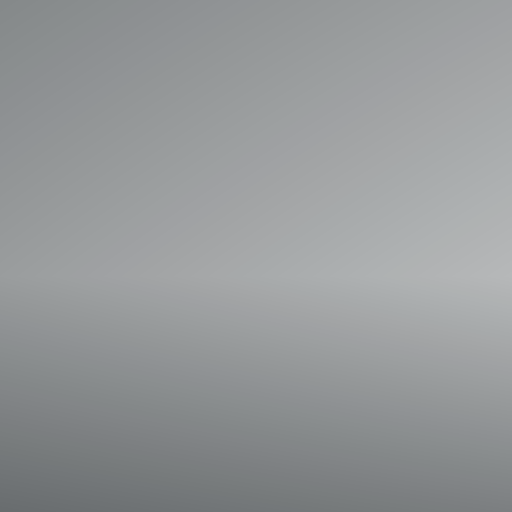
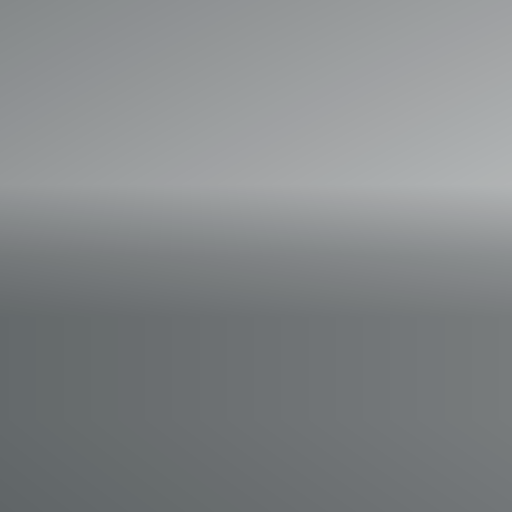
Accessibility fixes, code cleanup and detailed README
- Raise hero contrast on mobile and tablet (deeper mobile overlay, white
  description, lighter greeting); 24px contact link targets
- Move cream color out of the shared hand-note style so overrides apply
- Un-export locally used types/constants
- Refresh link preview images
- Rewrite README: stack, structure, motion, stickers, accessibility,
  privacy, and credits (photos and hand-designed logos by Tia; Claude
  assisted with site details)

diff --git a/src/components/Hero/Hero.tsx b/src/components/Hero/Hero.tsx
@@ -33,7 +33,7 @@ export function Hero() {
         <motion.p
           className={classNames(
             handNote,
-            "mb-0.5 gap-1.5 text-[20px] md:justify-start md:gap-2 md:text-[26px]",
+            "text-[#fff3e2] mb-0.5 gap-1.5 text-[20px] md:justify-start md:gap-2 md:text-[26px]",
             "[&_svg]:size-4.5 [&_svg]:flex-none md:[&_svg]:size-5.5",
           )}
           variants={write}
@@ -45,7 +45,7 @@ export function Hero() {
         <AnimatedName text="Tia Rexine" />
         <motion.p
           className={classNames(
-            "mb-1 max-w-110 leading-[1.4] text-sand/92 [text-shadow:0_1px_8px_rgb(0_0_0/35%)]",
+            "mb-1 max-w-110 leading-[1.4] text-white [text-shadow:0_1px_8px_rgb(0_0_0/35%)]",
             "-mt-1.25 text-[13.5px] md:-mt-2.25 md:text-[15px]",
           )}
           variants={rise}

diff --git a/src/components/Stickers/Stickers.tsx b/src/components/Stickers/Stickers.tsx
@@ -19,7 +19,7 @@ const stickerClass = classNames(
 
 const captionClass = classNames(
   handNoteText,
-  "mt-0.5 block text-center leading-[1.05] text-balance",
+  "mt-0.5 block text-center text-cream leading-[1.05] text-balance",
   "text-[18px] whitespace-normal",
   "collage:mx-[-35%] collage:w-[170%] collage:text-[21px] collage:whitespace-pre-line",
 );
@@ -70,7 +70,7 @@ export function Stickers() {
     >
       <SectionHeading kicker="a few of my favorites" title="Things I love" id="stickers-title">
         <motion.p
-          className={classNames(handNoteText, "hidden items-center text-[19px] opacity-80 fine:inline-flex")}
+          className={classNames(handNoteText, "hidden items-center text-cream text-[19px] opacity-80 fine:inline-flex")}
           variants={write}
         >
           (go ahead, drag them anywhere)

diff --git a/src/components/Hero/ContactLinks.tsx b/src/components/Hero/ContactLinks.tsx
@@ -4,7 +4,7 @@ import { faGithub, faLinkedinIn } from "@fortawesome/free-brands-svg-icons";
 import { BrandIcon } from "@/components/shared/icons";
 
 const link = classNames(
-  "inline-flex items-center transition-colors duration-180 hover:text-white",
+  "-my-1 inline-flex items-center py-1 transition-colors duration-180 hover:text-white",
   "gap-1.25 text-[11px] min-[401px]:gap-1.5 min-[401px]:text-[12px]",
   "[&_svg]:size-4 [&_svg]:stroke-[1.8]",
 );

diff --git a/src/components/About/AboutCard.tsx b/src/components/About/AboutCard.tsx
@@ -57,7 +57,7 @@ export function AboutCard({ block }: { block: AboutBlock }) {
             ))}
           </motion.ul>
           <motion.p
-            className={classNames(handNote, "mt-1 -rotate-2 gap-2 leading-[1.1] text-[20px] md:text-[22px]")}
+            className={classNames(handNote, "mt-1 -rotate-2 gap-2 text-cream leading-[1.1] text-[20px] md:text-[22px]")}
             variants={write}
           >
             even the tarantulas{" "}

diff --git a/src/components/shared/SectionHeading.tsx b/src/components/shared/SectionHeading.tsx
@@ -19,7 +19,7 @@ export function SectionHeading({
 }) {
   return (
     <motion.div className="grid justify-items-center gap-1" variants={group}>
-      <motion.p className={classNames(handNote, "gap-2 text-[20px] md:text-[24px]")} variants={write}>
+      <motion.p className={classNames(handNote, "gap-2 text-cream text-[20px] md:text-[24px]")} variants={write}>
         {kicker}
       </motion.p>
       <motion.h2

diff --git a/src/components/About/aboutData.tsx b/src/components/About/aboutData.tsx
@@ -5,7 +5,7 @@ import { Burro } from "@/components/shared/icons";
 
 type Icon = ComponentType<SVGProps<SVGSVGElement>>;
 
-export type AboutLink = { href: string; label: string; logo: string; logoAlt: string };
+type AboutLink = { href: string; label: string; logo: string; logoAlt: string };
 
 export type AboutBlock = {
   icons: Icon[];

diff --git a/src/components/Stickers/stickerData.ts b/src/components/Stickers/stickerData.ts
@@ -8,7 +8,7 @@ import potteryShelf from "../../../public/stickers/pottery-shelf.webp";
 import scallopedBowl from "../../../public/stickers/scalloped-bowl.webp";
 import tarantula from "../../../public/stickers/tarantula.webp";
 
-export type Sticker = {
+type Sticker = {
   image: StaticImageData;
   alt: string;
   label: string;

diff --git a/src/components/shared/motion.ts b/src/components/shared/motion.ts
@@ -1,7 +1,7 @@
 import type { Variants } from "motion/react";
 import type { PointerEvent } from "react";
 
-export const ease = [0.22, 1, 0.36, 1] as const;
+const ease = [0.22, 1, 0.36, 1] as const;
 
 export const group: Variants = {
   hidden: {},

diff --git a/src/components/shared/styles.ts b/src/components/shared/styles.ts
@@ -1,7 +1,7 @@
 import classNames from "classnames";
 
 export const handNoteText = classNames(
-  "font-script font-semibold leading-[1.1] text-cream",
+  "font-script font-semibold leading-[1.1]",
   "[text-shadow:0_1px_10px_rgb(0_0_0/35%)]",
 );
 

diff --git a/README.md b/README.md
@@ -1,21 +1,224 @@
-# Tia Rexine Portfolio
+# Tia Rexine — Portfolio
 
-A personal portfolio built with Next.js App Router, React, TypeScript, and Tailwind CSS. The homepage features Rexine Spa Care and Free Space Therapy, with the uploaded mountain photograph as the hero backdrop.
+The personal site of Tia Rexine, a full stack software engineer in the Sonoran desert who designs and builds for the
+web. It's a single, scrolling page: a sunset hero, a few cards about me, the sites I've built, a board of draggable
+photo stickers, and a way to say hello.
 
-## Run locally
+**Live site:** [tiarexine.com](https://tiarexine.com)
+
+---
+
+## Original work, made by hand
+
+- **Every photo on this site was taken by me.** That includes the mountain backdrop, the sunset skies the drifting
+  clouds come from, my pottery, my lamp, my cats and the desert neighbors on the sticker board.
+- **Every logo was designed by me, without the use of AI.** That includes the T-rex badge used for the site icon, the
+  Rexine Spa Care logo and the Free Space Therapy logo. Each one started as hand sketches and brainstorming and was
+  then executed in Adobe Illustrator.
+- **Built with help from Claude.** I used Claude, Anthropic's AI assistant, to help with many site details: code,
+  animations, accessibility testing, layout and copy edits. The photos and logos are entirely my own.
+
+The photos were prepared for the web without changing what's in them. Sticker cutouts were made with macOS's
+built-in subject lifting, the cloud strips were recolored from my sunset shots, and every image was resized,
+compressed and stripped of its metadata (including GPS location) before being added to the repo.
+
+---
+
+## Tech stack
+
+| Package | Version | What it does here |
+|---|---|---|
+| [Next.js](https://nextjs.org) | 16.4 | Framework: App Router, static rendering, image optimization, font loading and the metadata files (icons, link previews). |
+| [React](https://react.dev) + React DOM | 19.3 | UI library. All interactive pieces are small client components. |
+| [Motion](https://motion.dev) | 14 | Entrance animations, the letter-by-letter name, sticker physics and dragging (see [Motion](#motion)). |
+| [Tailwind CSS](https://tailwindcss.com) | 4.3 | Styling. Almost every style is an inline utility class; `globals.css` holds the design tokens. |
+| `@tailwindcss/turbopack` | 4.3 | Runs Tailwind inside Next's Turbopack bundler (configured in `next.config.ts`). |
+| [classnames](https://github.com/JedWatson/classnames) | 2.5 | Groups long Tailwind class lists into readable lines and handles conditional classes. |
+| [Lucide React](https://lucide.dev) | 1.74 | Line icons: sun, mail, palette, cat, store, arrows, heart, droplet, pause/play. |
+| [Font Awesome Brands](https://fontawesome.com) | 7.3 | The LinkedIn and GitHub logos, rendered through a tiny `BrandIcon` component. |
+| TypeScript | 5.9 | Types for every component and data file. |
+| ESLint + `eslint-config-next` | 9 | Linting, including a **120-character line limit**. |
+
+Built into Next.js and also used:
+
+- **`next/font`** loads three typefaces with no layout shift: **Geist** (body text), **Caveat** (the handwritten
+  notes) and **Diamond Grotesk** (headings and my name, self-hosted from `public/fonts`).
+- **`next/image`** serves responsive, optimized images for the logos, the T-rex badge and the stickers.
+- **Metadata files** in `src/app` (`icon.png`, `apple-icon.png`, `favicon.ico`, `opengraph-image.jpg`,
+  `twitter-image.jpg` and their `.alt.txt` files) give the site its icons and its link preview, which is a capture
+  of the real hero.
+
+---
+
+## Project structure
+
+```
+src/
+├── app/
+│   ├── layout.tsx          Fonts, <html>, and site metadata (title, description, social cards)
+│   ├── page.tsx            The page: sky layers, backdrop, and the five sections
+│   ├── globals.css         Tailwind import, design tokens, a few utilities, and CSS-only effects
+│   └── *.png / *.jpg       Icons and link-preview images
+└── components/
+    ├── Hero/               Hero, AnimatedName, ContactLinks, TrexBadge
+    ├── About/              About section, AboutCard, aboutData (all the card copy)
+    ├── Work/               Work section, ProjectCard, projects (logos, tags, palettes, links)
+    ├── Stickers/           Sticker board, stickerData, useFinePointer
+    ├── SayHello/           Footer section and the MotionToggle (pause animations)
+    └── shared/             GlassCard, SectionHeading, icons, motion presets, MotionProvider, styles
+```
+
+Copy and data live apart from layout, so text can be edited without touching markup: the About cards in
+`aboutData.tsx`, the projects in `projects.ts`, and the stickers in `stickerData.ts`.
+
+---
+
+## Design system
+
+`src/app/globals.css` defines everything the components share:
+
+- **Colors:** `cream` (#fde7c2) for accents, `sand` (#f3f0e8) for text, `ink` and `night` for the dark background,
+  and `coral` for focus rings.
+- **Fonts:** `font-display` (Diamond Grotesk) and `font-script` (Caveat).
+- **Utilities:**
+  - `glass`: the frosted, softly outlined cards.
+  - `text-sunset`: the white-to-cream gradient on my name and the section headings.
+  - `dot-list`: the cream lists separated by dots (desert animals and tech tags), styled so they don't look clickable.
+- **Breakpoints:**
+  - `md:` (768px) for desktop.
+  - `short:` for short laptop screens.
+  - `fine:` for mouse users on wider screens.
+  - `collage:` (900px) for the free-form sticker layout.
+
+---
+
+## The backdrop and sky
+
+- **Mountain photo:** fixed behind the page and denoised so the sky stays smooth on high-resolution screens.
+- **Drifting clouds:** two layers cut from my sunset photos and recolored violet and pink. They blend with the photo
+  and drift sideways in a seamless loop: the back layer over about 4 minutes, the front one over about 2½, for a
+  sense of depth. A soft mask keeps them in the sky so the mountains stay clear.
+- **Shading:** a gentle overlay improves text contrast. It's baked into a PNG, one for desktop and one for mobile,
+  instead of a CSS gradient, which avoids the faint grid pattern Chrome draws over large gradients.
+- **Scroll darkening:** as you scroll, the background darkens slightly using CSS scroll-driven animation, so longer
+  text stays readable.
+
+---
+
+## Motion
+
+All motion is built with Motion. The shared presets live in `components/shared/motion.ts`.
+
+- **Hero entrance:** the greeting "writes" itself in (a left-to-right clip reveal), then **"Tia Rexine" springs up
+  letter by letter**, then the description and links rise in.
+- **Section entrances:** each section rises into view once as you scroll. Cards spring in with a slight scale and
+  blur, and the desert animals pop in one at a time.
+- **Small living details** (CSS keyframes):
+  - the slowly turning sun
+  - the swaying saguaro
+  - the bobbing T-rex badge
+  - the beating heart after "even the tarantulas"
+  - the nudging arrow under "a bit about me"
+  - About-card icons that wiggle on hover
+- **Hover:**
+  - Cards show a warm glare that follows the cursor (a radial gradient positioned with CSS variables).
+  - Project and Rexine logos grow slightly.
+  - Link arrows nudge up and to the right.
+- **Custom cursors:**
+  - a soaring hawk everywhere
+  - a diving hawk over links and buttons
+  - a cream pointing hand over draggable stickers
+- **Respectful by default:**
+  - `MotionConfig reducedMotion="user"` and CSS media queries turn movement off for anyone with "reduce motion"
+    enabled.
+  - A **Pause animations** toggle in the footer stops all continuous motion and remembers the choice.
+
+### Stickers
+
+The "Things I love" board turns my photos into die-cut stickers with white borders and a soft drop shadow.
+
+- **Entrance:** each sticker "slaps" onto the board with a springy rotate-and-scale.
+- **Dragging:** with a mouse, every sticker can be **dragged anywhere on the page**. The one you grab comes to the
+  front, the page auto-scrolls near the edges, and stickers can't be dragged off the site. Dragging is turned off on
+  touch screens (detected by `useFinePointer`) so it never fights with scrolling.
+- **Responsive layout:**
+  - 900px and wider: a free-form collage positioned with CSS variables.
+  - 768–899px: a tidy 4-column grid.
+  - Phones: 2 columns.
+- **Captions** are handwritten. A caption can carry a tiny icon (the droplet after "resident drooler"), and the lamp's
+  caption is nudged to sit centered under its base.
+
+---
+
+## Accessibility
+
+The site is built and tested to meet **WCAG 2.2 Level AA**.
+
+**How it was tested**
+
+- [axe-core](https://github.com/dequelabs/axe-core) against WCAG 2.0, 2.1 and 2.2 A/AA plus best practices, at
+  desktop, tablet and mobile widths: **zero violations**.
+- **Text contrast** measured against the actual pixels behind each text style (the sky and the cards), at three
+  screen sizes: all 23 text styles pass.
+- **Keyboard:** a full walk of all 14 interactive elements, plus checks for zoom, reflow, text spacing and target
+  size.
+
+**What's in place, and the problems it solves**
+
+- **Readable text over a bright sunset.**
+  - **Problem:** light text over a golden sky failed contrast.
+  - **Solution:** the hero sits low over the darker mountain haze instead of the bright middle of the sky, and the
+    mobile overlay is subtly deeper behind the text. No band, box or blur covers the sky.
+  - **Result:** the hero reaches 4.1–8.1:1, depending on the element and screen size.
+- **Screen readers:**
+  - One `h1` and a clean `h2`/`h3` outline, a `main` landmark, a labeled `footer`, and every section labeled by
+    its heading.
+  - My name is animated letter by letter but announced as one word through an `aria-label`.
+  - Decorative icons and images are hidden. Every meaningful image has alt text, including the link preview.
+  - Links that open a new tab say so, for example "LinkedIn (opens in a new tab)".
+  - Color swatches have text names, so they aren't communicated by color alone.
+- **Keyboard:** every link and button is reachable in a logical order, with a clearly visible coral focus ring (at
+  least 3:1 against its background) and no keyboard traps. "a bit about me" scrolls to the About section without
+  changing the URL.
+- **Touch targets:** all controls are at least 24×24px.
+- **Zoom and reflow:** no sideways scrolling or clipped text at 320px wide, in phone landscape, at 200% zoom, or
+  with increased letter, word and line spacing.
+- **Motion (WCAG 2.2.2):** continuous animation can be paused on the page, "reduce motion" is respected, and nothing
+  flashes.
+- **Dragging (WCAG 2.5.7):** dragging stickers is purely optional. Every image and caption is fully available
+  without it.
+
+---
+
+## Privacy
+
+The original photos live in a git-ignored `photo-originals/` folder and are never committed or deployed. Only
+processed copies are published: resized, compressed, and with all metadata (including GPS location) removed.
+
+---
+
+## Development
 
 ```bash
 npm install
-npm run dev
+npm run dev      # http://localhost:3000
+npm run build    # production build
+npm run lint     # ESLint, including the 120-character line limit
 ```
 
-Open [http://localhost:3000](http://localhost:3000).
+Notes:
 
-## Deploy to Vercel
+- **Turbopack cache:** `next.config.ts` turns off Turbopack's persistent filesystem cache. With the Tailwind loader
+  it sometimes served stale CSS after edits. The site is small enough that the cache isn't needed.
+- **Tailwind class names:** classes use Tailwind's canonical forms (for example `size-4.5` rather than
+  `size-[18px]`), so the Tailwind IntelliSense extension shows no `suggestCanonicalClasses` warnings.
 
-Import `makapiatia/tia-rexine-app` into Vercel and deploy with the default Next.js settings. In the Vercel project settings, add `tiarexine.com` and follow the DNS records Vercel provides at your domain registrar.
+## Deploy
 
-## Project links
+The site deploys to [Vercel](https://vercel.com) with the default Next.js settings, at the
+[tiarexine.com](https://tiarexine.com) domain.
 
-- [Rexine Spa Care](https://www.rexinespacare.com/)
-- [Free Space Therapy](https://www.freespace-therapy.com/)
+## Projects featured
+
+- [Rexine Spa Care](https://www.rexinespacare.com/) ([source](https://github.com/makapiatia/rexine-spa-care))
+- [Free Space Therapy](https://www.freespace-therapy.com/) ([source](https://github.com/makapiatia/freespace-therapy))
